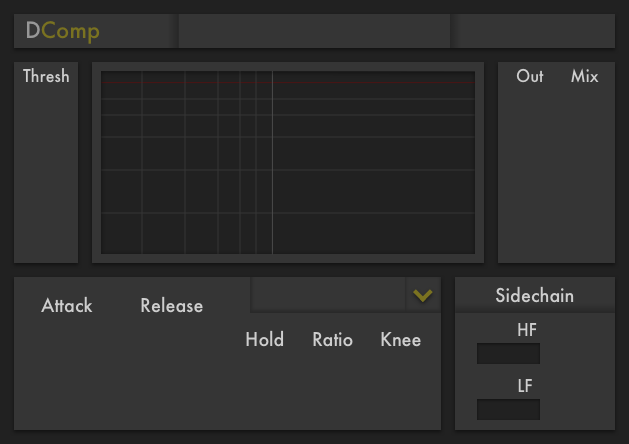
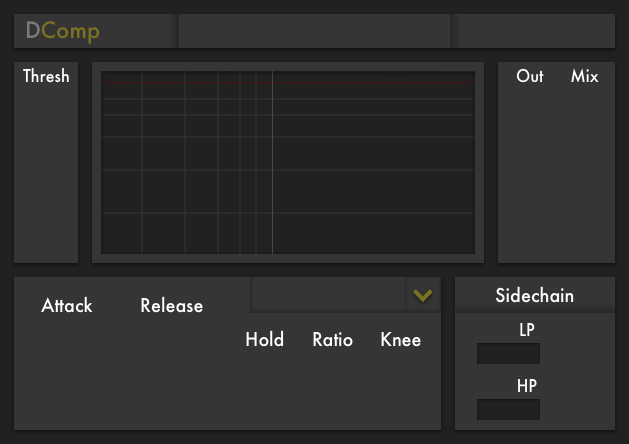
Updated fader controls to snap to mouse

diff --git a/IKnobMultiControlText.h b/IKnobMultiControlText.h
@@ -17,15 +17,17 @@ private:
     IBitmap mBitmap;
     bool mShowParamLabel;
 public:
-    IKnobMultiControlText(IPlugBase* pPlug, int x, int y, int paramIdx, IBitmap* pBitmap, IText* pText, bool showParamLabel=true)
+    IKnobMultiControlText(IPlugBase* pPlug, int x, int y, int paramIdx, IBitmap* pBitmap, IText* pText, bool showParamLabel=true, int offset = 0)
     : IKnobMultiControl(pPlug, x, y, paramIdx, pBitmap), mBitmap(*pBitmap), mShowParamLabel(showParamLabel)
     {
-        mRECT = IRECT(mRECT.L, mRECT.T, mRECT.R, mRECT.B+10);
+        mRECT = IRECT(mRECT.L, mRECT.T, mRECT.R, mRECT.B+10 + offset);
         mText = *pText;
         mTextRECT = IRECT(mRECT.L, mRECT.B-20, mRECT.R, mRECT.B);
         mImgRECT = IRECT(mRECT.L, mRECT.T, &mBitmap);
         mDisablePrompt = false;
     }
+    
+
     
     ~IKnobMultiControlText() {}
     
@@ -86,26 +88,40 @@ public:
 #endif
     }
     
+    void setCaptionOffset(int offset){
+        mTextRECT = IRECT(mTextRECT.L, mTextRECT.B + offset, mTextRECT.R, mTextRECT.B + offset);
+        SetDirty();
+    }
+    
 };
 
-class IFaderControlText : public IFaderControl
+class IFaderControlText : public IKnobMultiControl
 {
+private:
+    IRECT mTextRECT, mImgRECT;
+    IBitmap mBitmap;
+    bool mShowParamLabel;
 public:
-    IFaderControlText(IPlugBase* pPlug, int x, int y, int len, int paramIdx, IBitmap* pBitmap, EDirection direction, bool onlyHandle, IText* pText)
-    : IFaderControl(pPlug, x, y, len, paramIdx, pBitmap, direction, onlyHandle)
+    IFaderControlText(IPlugBase* pPlug, int x, int y, int paramIdx, IBitmap* pBitmap, IText* pText, bool showParamLabel=true, int offset = 0)
+    : IKnobMultiControl(pPlug, x, y, paramIdx, pBitmap), mBitmap(*pBitmap), mShowParamLabel(showParamLabel)
     {
-        mRECT = IRECT(mRECT.L, mRECT.T, mRECT.R, mRECT.B+20);
-        mShowParamLabel = true;
+        mRECT = IRECT(mRECT.L, mRECT.T, mRECT.R, mRECT.B+10 + offset);
         mText = *pText;
-        mTextRECT = IRECT(mRECT.L, mRECT.B, mRECT.R, mRECT.B + 20);
+        mTextRECT = IRECT(mRECT.L, mRECT.B-20, mRECT.R, mRECT.B);
+        mImgRECT = IRECT(mRECT.L, mRECT.T, &mBitmap);
         mDisablePrompt = false;
-
     }
     
     
+    
+    ~IFaderControlText() {}
+    
     bool Draw(IGraphics* pGraphics)
     {
-        IFaderControl::Draw(pGraphics);
+        int i = 1 + int(0.5 + mValue * (double) (mBitmap.N - 1));
+        i = BOUNDED(i, 1, mBitmap.N);
+        pGraphics->DrawBitmap(&mBitmap, &mImgRECT, i, &mBlend);
+        //pGraphics->FillIRect(&COLOR_WHITE, &mTextRECT);
         
         char disp[20];
         mPlug->GetParam(mParamIdx)->GetDisplayForHost(disp);
@@ -125,40 +141,66 @@ public:
         return true;
     }
     
+    
+    void OnMouseDown(int x, int y, IMouseMod* pMod)
+    {
+        if (mTextRECT.Contains(x, y)) PromptUserInput(&mTextRECT);
+#ifdef PROTOOLS
+        if (pMod->A)
+        {
+            if (mDefaultValue >= 0.0)
+            {
+                mValue = mDefaultValue;
+                SetDirty();
+                return;
+            }
+        }
+        else
+#endif
+            if (pMod->R)
+            {
+                PromptUserInput();
+                return;
+            }
+        
+        if(mImgRECT.Contains(x, y)) SnapToMouse(x, y);
+    }
+    
+    
+    
+    void OnMouseDblClick(int x, int y, IMouseMod* pMod)
+    {
+#ifdef RTAS_API
+        PromptUserInput(&mTextRECT);
+#else
+        if (mDefaultValue >= 0.0)
+        {
+            mValue = mDefaultValue;
+            SetDirty();
+        }
+#endif
+    }
+    
+    
     void OnMouseDrag(int x, int y, int dX, int dY, IMouseMod* pMod)
     {
         return SnapToMouse(x, y);
     }
     
     
-    void OnMouseDown(int x, int y, IMouseMod* pMod)
+    void SnapToMouse(int x, int y)
     {
-        if (mTextRECT.Contains(x, y)) PromptUserInput(&mTextRECT);
-#ifdef RTAS_API
-        else if (pMod->A)
-        {
-            if (mDefaultValue >= 0.0)
-            {
-                mValue = mDefaultValue;
-                SetDirty();
-            }
-        }
-#endif
-        else
-        {
-            IFaderControl::OnMouseDown(x, y, pMod);
-        }
-    }
-    
-    void showParamLabel(bool show){
-        mShowParamLabel = show;
+        mValue = 1.0 - (double) (y - mImgRECT.T) / (double) mImgRECT.H();
+        
+
         SetDirty();
     }
-
-private:
-    IText mText;
-    IRECT mTextRECT;
-    bool mShowParamLabel;
+    
+    void setCaptionOffset(int offset){
+        mTextRECT = IRECT(mTextRECT.L, mTextRECT.B + offset, mTextRECT.R, mTextRECT.B + offset);
+        SetDirty();
+    }
+    
 };
 
 

diff --git a/DComp.cpp b/DComp.cpp
@@ -41,6 +41,8 @@ enum ELayout
   kAttackX = 22,
   kReleaseX = kAttackX + 104,
   
+  kSliderCaptionOffset = 8,
+  kSmallKnobCaptionOffset = 5,
   kSmallKnobsY = 350,
   kHoldX = 238,
   kRatioX = kHoldX + 68,
@@ -53,6 +55,10 @@ enum ELayout
   kSCAudX = 581,
   kSCAudY = kSCBypassY + 1,
   kFaderLength = 264,
+  
+  kLPCaptionX = 477,
+  kLPCaptionY = 347,
+  kHPCaptionY = 403,
   
   kPlotTimeScale = 4,
   
@@ -144,7 +150,6 @@ DComp::DComp(IPlugInstanceInfo instanceInfo)
   
   //374 x 183
   IRECT plotRECT = IRECT(101, 71, 475, 254);
-  IText caption = IText(14, &COLOR_WHITE, "Futura", IText::kStyleNormal, IText::kAlignCenter);
   
   plot = new ILevelPlotControl(this, plotRECT, -1, &plotPreFillColor, &plotPreLineColor, kPlotTimeScale);
   plot->setResolution(ILevelPlotControl::kHighRes);
@@ -185,17 +190,18 @@ DComp::DComp(IPlugInstanceInfo instanceInfo)
   
   
   mShadow = new IBitmapControl(this, plotRECT.L , plotRECT.T, &shadow);
-  pGraphics->AttachControl(new IKnobMultiControlText(this, kThresholdX, kSlidersY, kThreshold, &slider, &caption));
-  pGraphics->AttachControl(new IKnobMultiControlText(this, kGainX, kSlidersY, kGain, &slider, &caption));
-  pGraphics->AttachControl(new IKnobMultiControlText(this, kMixX, kSlidersY, kMix, &slider, &caption));
+  pGraphics->AttachControl(new IFaderControlText(this, kThresholdX, kSlidersY, kThreshold, &slider, &sliderCaption, true, kSliderCaptionOffset));
+  pGraphics->AttachControl(new IFaderControlText(this, kGainX, kSlidersY, kGain, &slider, &sliderCaption, true, kSliderCaptionOffset));
+  pGraphics->AttachControl(new IFaderControlText(this, kMixX, kSlidersY, kMix, &slider, &sliderCaption, true, kSliderCaptionOffset));
   pGraphics->AttachControl(new IKnobMultiControlText(this, kAttackX, kBigKnobsY, kAttack, &knob, &caption));
   pGraphics->AttachControl(new IKnobMultiControlText(this, kReleaseX, kBigKnobsY, kRelease, &knob, &caption));
-  pGraphics->AttachControl(new IKnobMultiControlText(this, kHoldX, kSmallKnobsY, kHold, &smallKnob, &caption));
-  pGraphics->AttachControl(new IKnobMultiControlText(this, kRatioX, kSmallKnobsY, kRatio, &smallKnob, &caption));
-  pGraphics->AttachControl(new IKnobMultiControlText(this, kKneeX, kSmallKnobsY, kKnee, &smallKnob, &caption));
-  pGraphics->AttachControl(new IKnobMultiControlText(this, kSCKnobsX, kSCKnobY, kCutoffLP, &smallKnob, &caption));
-  pGraphics->AttachControl(new IKnobMultiControlText(this, kSCKnobsX, kSCKnob2Y, kCutoffHP, &smallKnob, &caption));
-  
+  pGraphics->AttachControl(new IKnobMultiControlText(this, kHoldX, kSmallKnobsY, kHold, &smallKnob, &caption, true, kSmallKnobCaptionOffset));
+  pGraphics->AttachControl(new IKnobMultiControlText(this, kRatioX, kSmallKnobsY, kRatio, &smallKnob, &caption, true, kSmallKnobCaptionOffset));
+  pGraphics->AttachControl(new IKnobMultiControlText(this, kKneeX, kSmallKnobsY, kKnee, &smallKnob, &caption, true, kSmallKnobCaptionOffset));
+  pGraphics->AttachControl(new IKnobMultiControl(this, kSCKnobsX, kSCKnobY, kCutoffLP, &smallKnob));
+  pGraphics->AttachControl(new IKnobMultiControl(this, kSCKnobsX, kSCKnob2Y, kCutoffHP, &smallKnob));
+  pGraphics->AttachControl(new ICaptionControl(this, IRECT(kLPCaptionX, kLPCaptionY, kLPCaptionX + 63, kLPCaptionY + 21), kCutoffLP, &cutoffCaption));
+    pGraphics->AttachControl(new ICaptionControl(this, IRECT(kLPCaptionX, kHPCaptionY, kLPCaptionX + 63, kHPCaptionY + 21), kCutoffHP, &cutoffCaption));
   pGraphics->AttachControl(new ISwitchControl(this, kHPx, kHPy, kHPEnable, &HPButton));
   pGraphics->AttachControl(new ISwitchControl(this, kHPx, kLPy, kLPEnable, &LPButton));
   pGraphics->AttachControl(new ISwitchControl(this, kSCBypassX, kSCBypassY, kSidechain, &Bypass));

diff --git a/DComp.h b/DComp.h
@@ -41,6 +41,10 @@ private:
   IColor grFillColor = IColor(50, 250, 0,0);
   IColor threshLineColor = IColor(180, 180, 180, 180);
   
+  IText caption = IText(14, &COLOR_WHITE, "Futura", IText::kStyleNormal, IText::kAlignCenter);
+  IText cutoffCaption = IText(11, &COLOR_WHITE, "Futura", IText::kStyleNormal, IText::kAlignCenter);
+  IText sliderCaption = IText(12, &COLOR_WHITE, "Futura", IText::kStyleNormal, IText::kAlignCenter);
+
   double mGain, mThreshold, mAttack, mHold, mRelease, mRatio, mKnee, mMix, mCuttoffLP, mCuttoffHP;
   int mMode;
   bool mSidechainEnable, mSCAudition, mLPEnable, mHPEnable;
